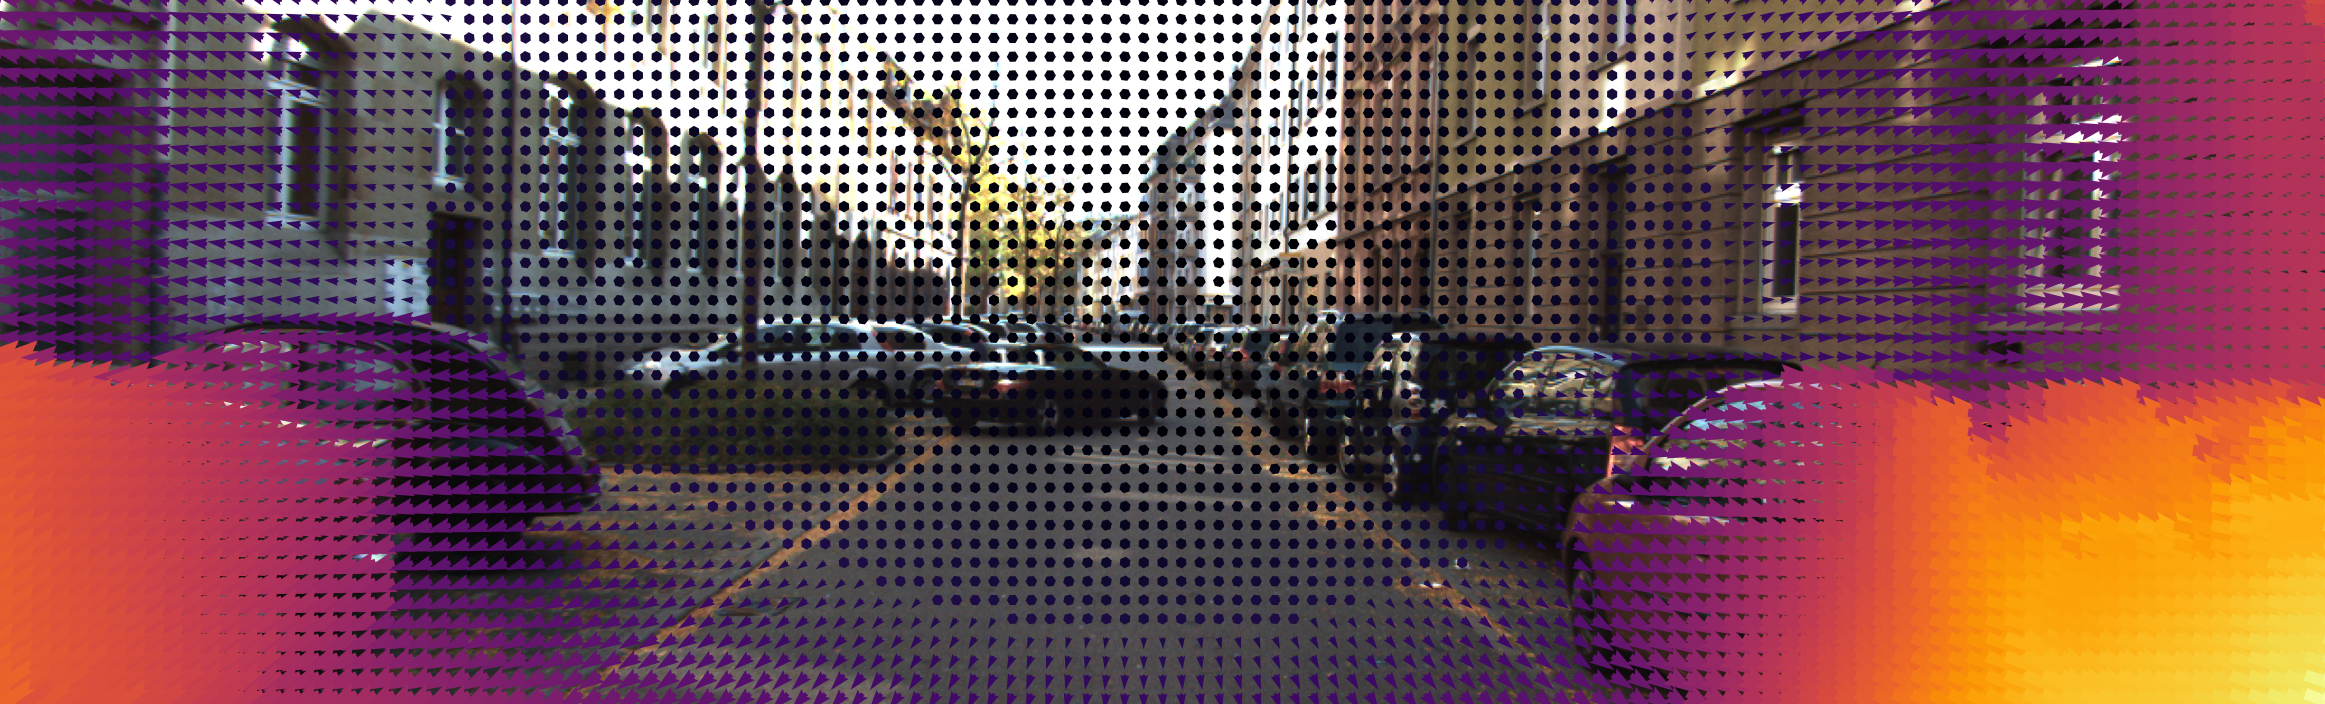
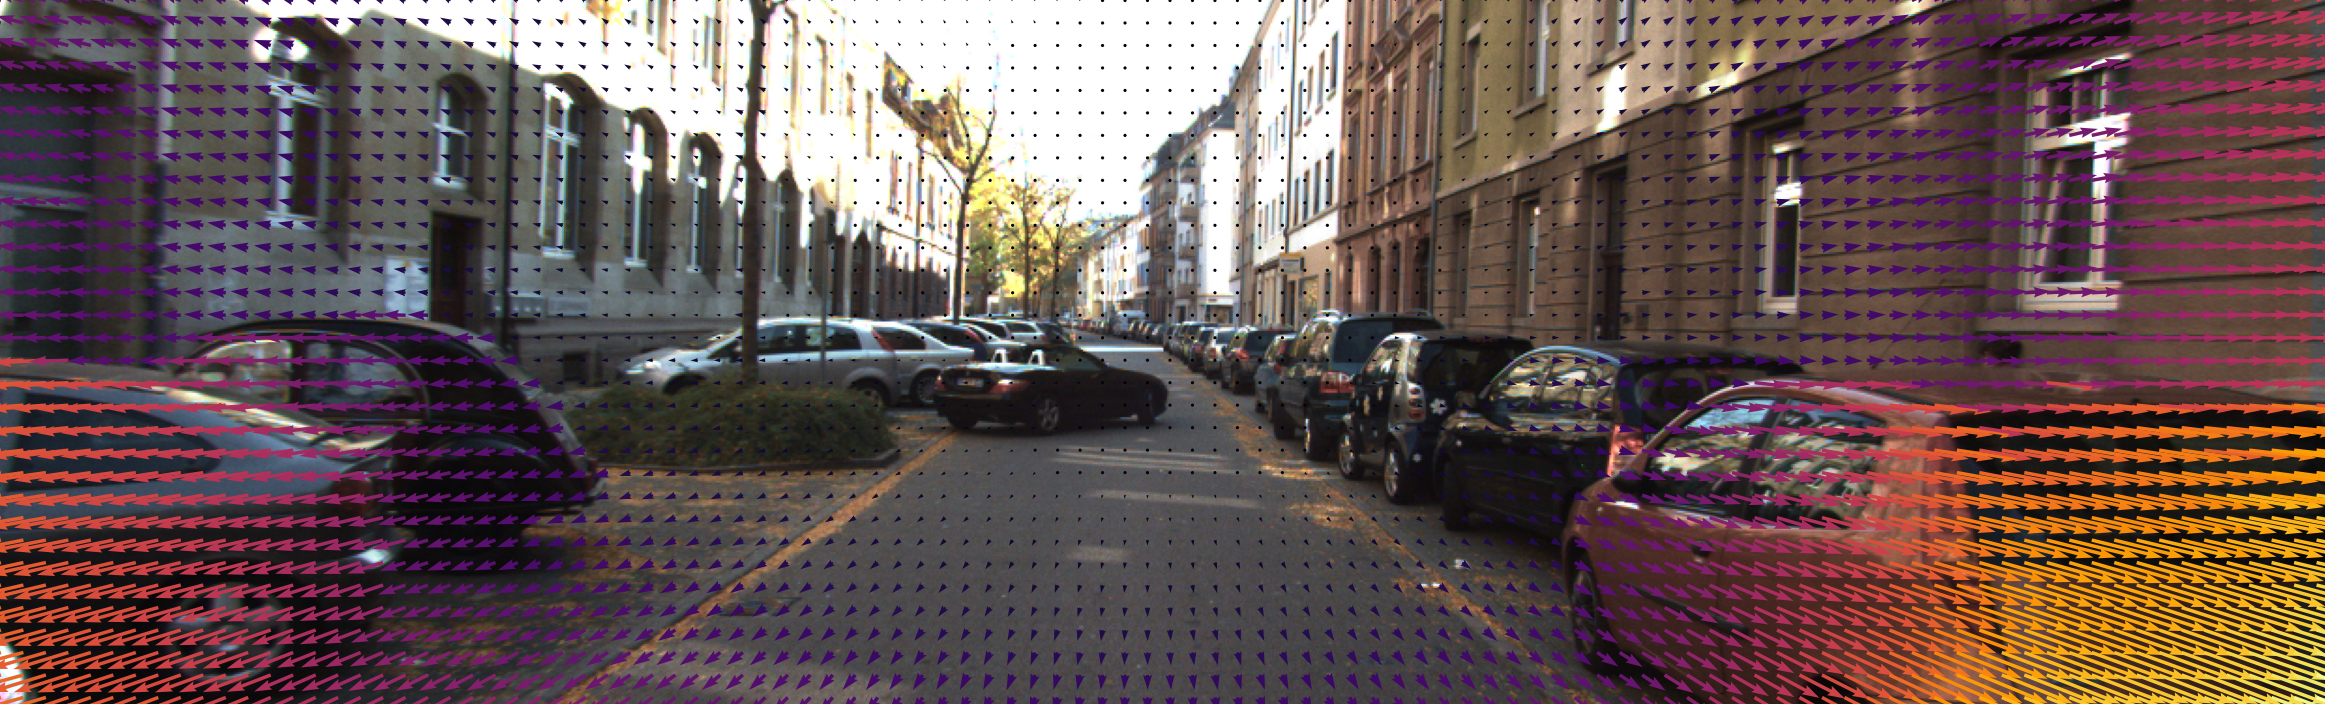
Final adjustments on the arrow plots

diff --git a/W3/task_1_2/task_1_2.py b/W3/task_1_2/task_1_2.py
@@ -86,7 +86,7 @@ def visualize_arrow(im1_path: str, flow, filename: str):
     flow_horizontal = flow[:, :, 0]
     flow_vertical = flow[:, :, 1]
 
-    step_size = 10
+    step_size = 12
     X, Y = np.meshgrid(np.arange(0, w, step_size), np.arange(0, h, step_size))
     U = flow_horizontal[Y, X]
     V = flow_vertical[Y, X]
@@ -98,7 +98,7 @@ def visualize_arrow(im1_path: str, flow, filename: str):
     
     plt.figure(figsize=(10, 10))
     plt.imshow(im1)
-    plt.quiver(X, Y, U, V, norm(magnitude), angles='xy', scale_units='xy', scale=1, cmap=cmap, width=0.005)
+    plt.quiver(X, Y, U, V, norm(magnitude), angles='xy', scale_units='xy',  scale=1, cmap=cmap, width=0.0015)
     plt.axis('off')
     plt.savefig(f'./results/arrow_{filename}.png', dpi=300, bbox_inches='tight', pad_inches=0)
     plt.close()
